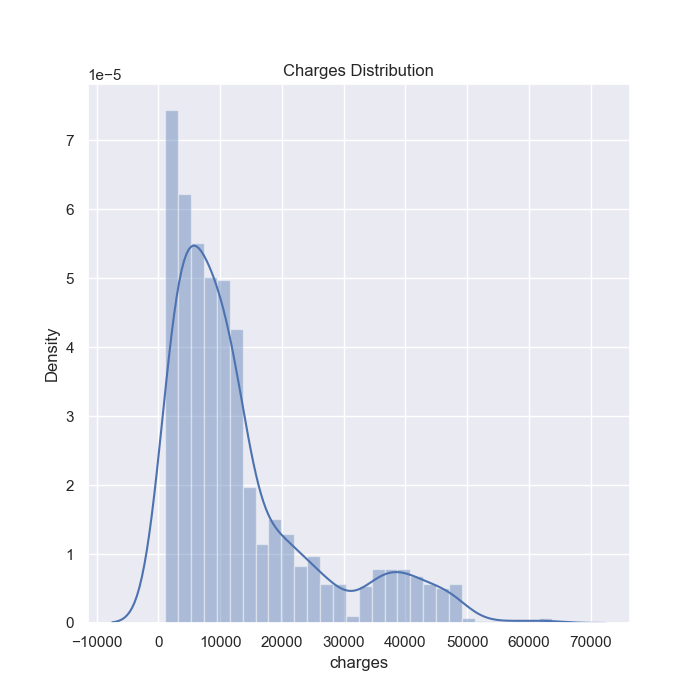
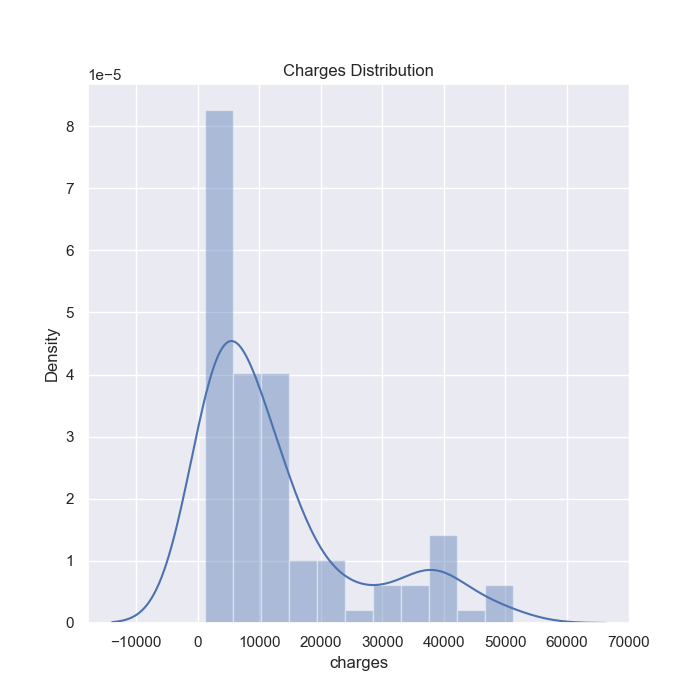
jan 23 commit 2

diff --git a/routes/patients.js b/routes/patients.js
@@ -126,7 +126,20 @@ router.get('/app/patientcost/:hospitalNumber', (req, res) => {
     var cost;
     Patient.findOne({ hospitalNumber }).then((patient) => {
         var score = patient.score;
-        var command = '"./prediction.py "' + " " + score + ' 1 ';
+        var dob = patient.dateOfBirth;
+        var disease = patient.diseases;
+        var datesplit = dob.split("/");
+        var age = 2023 - parseInt(datesplit[datesplit.length - 1]);
+
+        var discore;
+        if (disease[0] == 'Asthma') discore = 0;
+        else if (disease[0] == 'Cancer') discore = 1;
+        else if (disease[0] == 'covid-19') discore = 3;
+        else if (disease[0] == 'Diarrhea') discore = 4;
+        else if (disease[0] == 'Tuberculosis') discore = 5;
+        else discore = 4;
+
+        var command = '"./prediction.py "' + " " + age + ' 1' + " " + discore;
         exec(command, (error, stdout, stderr) => {
             if (error) {
                 console.error(`exec error: ${error}`);
@@ -138,7 +151,6 @@ router.get('/app/patientcost/:hospitalNumber', (req, res) => {
             res.status(200).render('patientPage', { insurance: fcost });
 
         });
-        console.log(score);
     })
 });
 

diff --git a/app.js b/app.js
@@ -30,7 +30,7 @@ PythonShell.run("prediction.py", options, (err, res) => {
 */
 var spawn = require("child_process").spawn;
 
-const python = spawn('python', ['prediction.py', 18, 0]);
+const python = spawn('python', ['prediction.py', 28, 0, 3]);
 python.stdout.on('data', function(data) {
     console.log('Pipe data from python script ...');
     dataToSend = data.toString();

diff --git a/prediction.py b/prediction.py
@@ -1,13 +1,4 @@
-# -*- coding: utf-8 -*-
-"""Project 11. Medical Insurance Cost Prediction.ipynb
-
-Automatically generated by Colaboratory.
-
-Original file is located at
-    https://colab.research.google.com/drive/1W9DrRq5Rlj719bT6m2SNNcv-KVnSZsRB
-
-Importing the Dependencies
-"""
+"""  Importing the Dependencies """
 
 import numpy as np
 import pandas as pd
@@ -22,26 +13,11 @@ import sys
 
 
 
-print("argument is",sys.argv[1])
 # loading the data from csv file to a Pandas DataFrame
-insurance_dataset = pd.read_csv('data.csv')
-
-# first 5 rows of the dataframe
-insurance_dataset.head()
-
-# number of rows and columns
-insurance_dataset.shape
-
-# getting some informations about the dataset
-insurance_dataset.info()
-
+insurance_dataset = pd.read_csv('dis.csv')
 
 """Data Analysis"""
 def func1():
-
- # statistical Measures of the dataset
-  #insurance_dataset.describe() 
-
  # distribution of age value
  sns.set()
  plt.figure(figsize=(7,7))
@@ -67,8 +43,18 @@ def func1():
  sns.distplot(insurance_dataset['charges'])
  plt.title('Charges Distribution')
  plt.savefig('./public/graphs/my_plot3.png')
+
+ # Disease column
+ plt.figure(figsize=(6,6))
+ sns.countplot(x='Diseases', data=insurance_dataset)
+ plt.title('Diseases')
+ plt.savefig('./public/graphs/my_plot5.png')
  
  
+#function call if argument is 1
+if(int(sys.argv[2])==0):
+ func1() 
+
 """Data Pre-Processing
 
 Encoding the categorical features
@@ -83,6 +69,10 @@ insurance_dataset.replace({'smoker':{'yes':0,'no':1}}, inplace=True)
 # encoding 'region' column
 insurance_dataset.replace({'region':{'southeast':0,'southwest':1,'northeast':2,'northwest':3}}, inplace=True)
 
+# encoding 'diseases' column
+insurance_dataset.replace({'Diseases':{'Asthma':0,'Cancer':1,'covid-19':2,'Diabetes':3,'Diarrhea':4,'Tuberculosis':5}}, inplace=True)
+
+
 """Splitting the Features and Target"""
 
 X = insurance_dataset.drop(columns='charges', axis=1)
@@ -94,16 +84,12 @@ Y = insurance_dataset['charges']
 
 X_train, X_test, Y_train, Y_test = train_test_split(X, Y, test_size=0.2, random_state=2)
 
-print(X.shape, X_train.shape, X_test.shape)
 
-"""Model Training
+"""Model Training Linear Regression"""
 
-Linear Regression
-"""
 
 # loading the Linear Regression model
 regressor = LinearRegression()
-
 regressor.fit(X_train, Y_train)
 
 """Model Evaluation"""
@@ -113,24 +99,16 @@ training_data_prediction =regressor.predict(X_train)
 
 # R squared value
 r2_train = metrics.r2_score(Y_train, training_data_prediction)
-print('R squared vale : ', r2_train)
 
 # prediction on test data
 test_data_prediction =regressor.predict(X_test)
 
 # R squared value
 r2_test = metrics.r2_score(Y_test, test_data_prediction)
-print('R squared vale : ', r2_test)
-
-
-#
-
-
-
 
 """Building a Predictive System"""
 def func2():
-    input_data = (int(sys.argv[1]),1,25.74,0,1,0)
+    input_data = (int(sys.argv[1]),1,25.74,0,1,0,int(sys.argv[3]))
     # changing input_data to a numpy array
     input_data_as_numpy_array = np.asarray(input_data)
     # reshape the array
@@ -139,11 +117,9 @@ def func2():
     # print(prediction)
     if prediction[0]<0:
        prediction[0]*=-1
-    print('The approximate cost is rupees ', prediction[0]*30)
+    print('The approximate cost is rupees ', prediction[0]*9.5)
     return prediction[0]
 
 
 if(int(sys.argv[2])==1):
  func2()
-elif(int(sys.argv[2])==0):
- func1()
